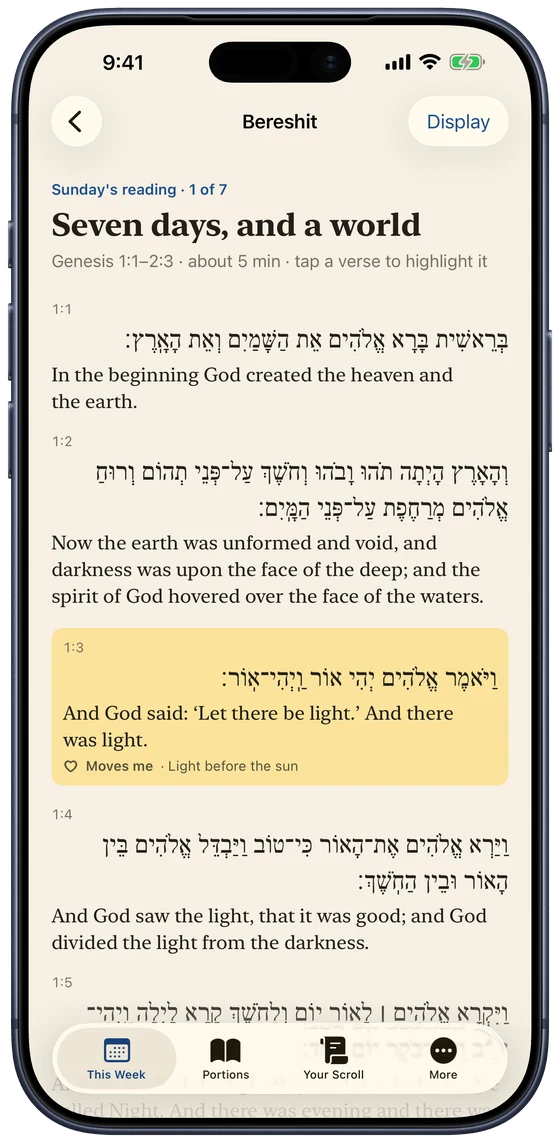
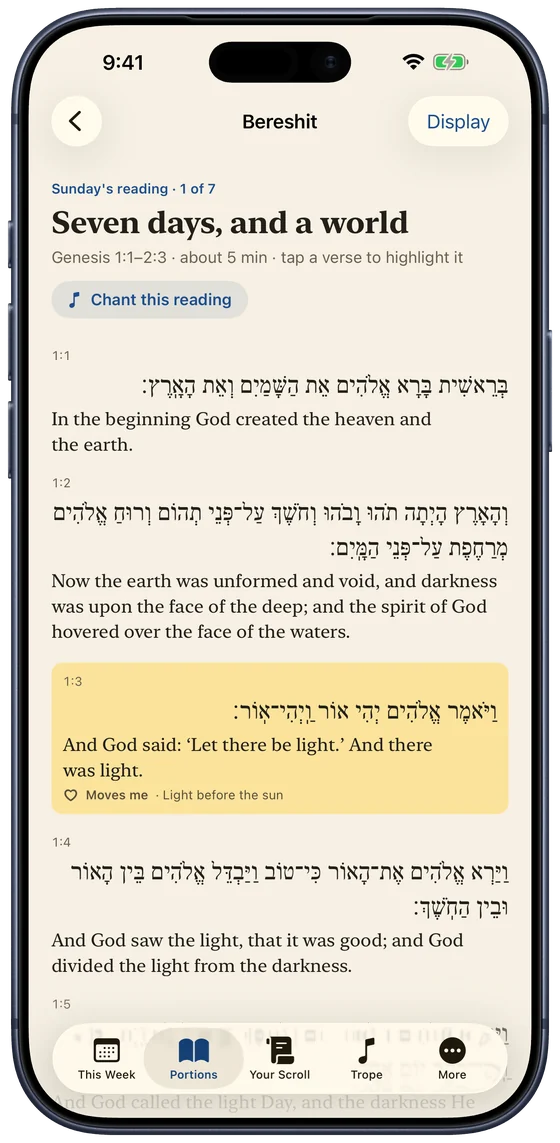
Learn trope section, trope FAQ, new screenshots

diff --git a/index.html b/index.html
@@ -19,12 +19,12 @@
 <meta name="twitter:card" content="summary_large_image">
 <link rel="icon" type="image/png" href="favicon.png">
 <link rel="apple-touch-icon" href="apple-touch-icon.png">
-<link rel="stylesheet" href="style.css?v=5">
+<link rel="stylesheet" href="style.css?v=4">
 </head>
 <body>
 <header class="bar"><div class="wrap">
   <a class="brand" href="./"><img src="img/icon.png" alt="" width="34" height="34"><span>Torah: Turn It</span></a>
-  <nav><a href="support.html">Support</a><a href="privacy.html">Privacy</a><a class="discord" data-discord hidden href="#" aria-label="Discord"><svg viewBox="0 0 24 24" aria-hidden="true" fill="currentColor"><path d="M20.3 4.4A19.8 19.8 0 0 0 15.4 3l-.6 1.3a18.4 18.4 0 0 0-5.6 0L8.6 3a19.7 19.7 0 0 0-4.9 1.5C.6 9.1-.3 13.6.1 18.1a19.9 19.9 0 0 0 6 3l1.3-2.1a12.9 12.9 0 0 1-2-1l.5-.4a14.2 14.2 0 0 0 12.2 0l.5.4a12.9 12.9 0 0 1-2.1 1l1.3 2.1a19.8 19.8 0 0 0 6-3c.5-5.2-.8-9.7-3.5-13.7ZM8.3 15.3c-1.2 0-2.2-1.1-2.2-2.4s1-2.4 2.2-2.4 2.2 1.1 2.2 2.4-1 2.4-2.2 2.4Zm7.4 0c-1.2 0-2.2-1.1-2.2-2.4s1-2.4 2.2-2.4 2.2 1.1 2.2 2.4-1 2.4-2.2 2.4Z"/></svg><span>Discord</span></a></nav>
+  <nav><a class="nav-trope" href="#trope">Learn trope</a><a href="support.html">Support</a><a href="privacy.html">Privacy</a><a class="discord" data-discord hidden href="#"><svg viewBox="0 0 24 24" aria-hidden="true" fill="currentColor"><path d="M20.3 4.4A19.8 19.8 0 0 0 15.4 3l-.6 1.3a18.4 18.4 0 0 0-5.6 0L8.6 3a19.7 19.7 0 0 0-4.9 1.5C.6 9.1-.3 13.6.1 18.1a19.9 19.9 0 0 0 6 3l1.3-2.1a12.9 12.9 0 0 1-2-1l.5-.4a14.2 14.2 0 0 0 12.2 0l.5.4a12.9 12.9 0 0 1-2.1 1l1.3 2.1a19.8 19.8 0 0 0 6-3c.5-5.2-.8-9.7-3.5-13.7ZM8.3 15.3c-1.2 0-2.2-1.1-2.2-2.4s1-2.4 2.2-2.4 2.2 1.1 2.2 2.4-1 2.4-2.2 2.4Zm7.4 0c-1.2 0-2.2-1.1-2.2-2.4s1-2.4 2.2-2.4 2.2 1.1 2.2 2.4-1 2.4-2.2 2.4Z"/></svg><span>Discord</span></a></nav>
 </div></header>
 
 <main>
@@ -35,7 +35,7 @@
     <h1>This week's Torah portion, a few minutes a day.</h1>
     <p class="lede">&ldquo;Turn it and turn it, for everything is in it.&rdquo; A rabbi named Ben Bag Bag said that about the Torah nearly two thousand years ago, and it&rsquo;s where this app gets its name.</p>
     <p class="lede">Every week brings a new portion to study (or turn over), called the parasha. Torah: Turn It gives you the original text, and different, interesting and relevant ways of studying it, making it applicable to your own life.</p>
-    <p class="lede"><strong>The Hebrew is all here, with vowels and even the trope for chanting. You just don&rsquo;t need it.</strong></p>
+    <p class="lede"><strong>The Hebrew is all here, with vowels and even the trope for chanting. You just don&rsquo;t need it.</strong> And if you&rsquo;d like to chant it, the app <a href="#trope">teaches you how</a>, starting from the very first mark.</p>
     <div class="cta">
       <a class="store-badge" data-store-live hidden href="#" aria-label="Download Torah: Turn It on the App Store"><picture><source srcset="img/app-store-badge-white.svg" media="(prefers-color-scheme: dark)"><img src="img/app-store-badge-black.svg" alt="Download on the App Store" width="132" height="44"></picture></a>
       <a class="button ghost" href="#inside">See what's inside</a>
@@ -72,6 +72,32 @@
   <figcaption>On iPad, the whole week at a glance, with keyboard shortcuts too.</figcaption>
 </section>
 
+<section id="trope" class="trope" aria-labelledby="trope-h">
+  <div>
+    <p class="eyebrow">Learn trope</p>
+    <h2 id="trope-h">Learn to chant it, from the very first mark.</h2>
+    <p class="sub">Trope is the melody the Torah is sung to: a tiny mark on almost every word, and each mark is a short tune. Most people only learn it for a bar or bat mitzvah, if at all, and plenty who did have forgotten it. Torah: Turn It teaches the Torah chant used in Reform congregations from scratch, and assumes you&rsquo;ve never seen a trope mark before.</p>
+    <ul class="trope-points">
+      <li><strong>Hear every mark</strong> played clearly, with each syllable lighting up as it&rsquo;s sung.</li>
+      <li><strong>See it written out</strong> the way trope books print it, on a staff that follows along. You don&rsquo;t need to read music.</li>
+      <li><strong>Practice on real verses</strong> from all five books, from &ldquo;In the beginning&rdquo; to the Shema.</li>
+      <li><strong>Your pace, your key.</strong> Slow it down while you learn, and move it up or down until it sits comfortably in your voice.</li>
+      <li><strong>Ten short lessons</strong>, one family of marks at a time, each ending with a quick quiz.</li>
+      <li><strong>Hear any verse chanted.</strong> Play one verse, carry on through the day&rsquo;s reading, or repeat a verse until you&rsquo;ve got it.</li>
+    </ul>
+  </div>
+  <figure class="trope-video">
+    <video src="img/trope-mark.mp4" poster="img/trope-mark-poster.jpg" autoplay muted loop playsinline preload="metadata" aria-label="Mercha playing in the app on words from Exodus and Leviticus: each syllable and note lights up in turn"></video>
+    <figcaption>Mercha on two real words, syllable by syllable and note by note</figcaption>
+  </figure>
+</section>
+
+<section class="shots trope-shots" aria-label="Learn trope in the app">
+  <figure><img src="img/iphone-trope-start.webp" alt="Start here: what trope is, explained step by step, beginning with the first word of the Torah" width="560" height="1143" loading="lazy"><figcaption>Starts from zero: what trope is and how to read it</figcaption></figure>
+  <figure><img src="img/iphone-trope-mark.webp" alt="A lesson on mercha: how to spot the mark, its melody on a staff, and real words from Genesis, Exodus and Leviticus" width="560" height="1143" loading="lazy"><figcaption>Every mark: how to spot it, how it sounds, how it&rsquo;s written</figcaption></figure>
+  <figure><img src="img/iphone-trope-phrase.webp" alt="A phrase from Genesis 1:1 shown as written and syllable by syllable, with the music following along" width="560" height="1143" loading="lazy"><figcaption>Then the marks together, in a real verse</figcaption></figure>
+</section>
+
 <section class="features">
   <div class="card"><h3>Words explain themselves</h3><p>Tap any underlined word, like midrash or mishkan, for a short explanation in plain English. No word stands in your way.</p></div>
   <div class="card"><h3>Your bar or bat mitzvah portion</h3><p>Enter a birthday and it finds the portion. A good way back to the one you once chanted, or a head start on your child's.</p></div>
@@ -95,7 +121,7 @@
   <div><a href="./">Home</a><a href="support.html">Support</a><a href="privacy.html">Privacy</a><a class="discord" data-discord hidden href="#"><svg viewBox="0 0 24 24" aria-hidden="true" fill="currentColor"><path d="M20.3 4.4A19.8 19.8 0 0 0 15.4 3l-.6 1.3a18.4 18.4 0 0 0-5.6 0L8.6 3a19.7 19.7 0 0 0-4.9 1.5C.6 9.1-.3 13.6.1 18.1a19.9 19.9 0 0 0 6 3l1.3-2.1a12.9 12.9 0 0 1-2-1l.5-.4a14.2 14.2 0 0 0 12.2 0l.5.4a12.9 12.9 0 0 1-2.1 1l1.3 2.1a19.8 19.8 0 0 0 6-3c.5-5.2-.8-9.7-3.5-13.7ZM8.3 15.3c-1.2 0-2.2-1.1-2.2-2.4s1-2.4 2.2-2.4 2.2 1.1 2.2 2.4-1 2.4-2.2 2.4Zm7.4 0c-1.2 0-2.2-1.1-2.2-2.4s1-2.4 2.2-2.4 2.2 1.1 2.2 2.4-1 2.4-2.2 2.4Z"/></svg><span>Discord</span></a></div>
   <div>Made by Rabbi Eric Linder. &copy; 2026 Chai Wellness</div>
 </div></footer>
-<script src="site.js?v=1" defer></script>
+<script src="site.js?v=2" defer></script>
 <script src="store.js?v=1" defer></script>
 </body>
 </html>

diff --git a/support.html b/support.html
@@ -35,8 +35,17 @@
     <h3>How do I find my bar or bat mitzvah portion?</h3>
     <p>Enter a birthday in the app and it works out the portion, then shows where it falls in the year.</p>
 
+    <h3>Which trope does it teach?</h3>
+    <p>The Torah chant sung in American Reform congregations, note for note as printed in <em>The Art of Torah Cantillation</em> (Portnoy and Wolff, UAHC Press). Find it in the Trope tab; the lessons start from zero.</p>
+
+    <h3>Do I need to read music to learn trope?</h3>
+    <p>No. Every mark plays out loud with its syllables lighting up as they&rsquo;re sung. The staff is there if you like it, and you can hide it.</p>
+
+    <h3>The chanting is too high, too low, or too fast for me.</h3>
+    <p>Tap <strong>Speed &amp; key</strong> at the top of any lesson. Slow it down while you learn, and move the key up or down half a step at a time until it sits comfortably in your voice.</p>
+
     <h3>My highlights aren't on my other device.</h3>
-    <p>Highlights, notes and reading progress sync through iCloud. Make sure both devices are signed in to the same Apple Account with iCloud turned on, then open the app on each. It can take a minute.</p>
+    <p>Highlights, notes, reading progress and trope lessons sync through iCloud. Make sure both devices are signed in to the same Apple Account with iCloud turned on, then open the app on each. It can take a minute.</p>
 
     <h3>I found a mistake in the text or a guide.</h3>
     <p>Thank you for catching it. Please write with the portion and verse. The English is the 1917 Jewish Publication Society translation, and every guide is checked against it.</p>

diff --git a/style.css b/style.css
@@ -89,12 +89,23 @@ footer a { color: var(--faded); margin-right: 18px; }
 .email-row code { font-size: 16px; }
 .email-row a, .email-row button { font: 600 15px var(--sans); color: var(--accent); background: none; border: 1.5px solid var(--rule); border-radius: 999px; padding: 6px 14px; cursor: pointer; text-decoration: none; }
 
+.trope { display: grid; grid-template-columns: 1.1fr 0.9fr; gap: 48px; align-items: center; }
+.trope-points { margin: 0; padding-left: 1.2em; max-width: 36em; }
+.trope-points li { margin: 0 0 10px; }
+.trope-video { margin: 0; justify-self: center; max-width: 420px; }
+.trope-video video { width: 100%; height: auto; display: block; border-radius: 22px; background: var(--card); box-shadow: 0 12px 40px rgba(0,0,0,.14); border: 1px solid var(--rule); }
+.trope-video figcaption { color: var(--faded); font-size: 15px; margin-top: 10px; text-align: center; }
+.trope-shots { padding-top: 0; }
 @media (max-width: 820px) {
+  .trope { grid-template-columns: 1fr; gap: 28px; }
   .hero { grid-template-columns: 1fr; padding-top: 32px; gap: 28px; }
   .hero-shot { max-width: 280px; }
   .parts, .features { grid-template-columns: 1fr; }
   .shots { grid-template-columns: 1fr 1fr; }
   nav a { margin-left: 12px; }
+}
+@media (max-width: 600px) {
+  .nav-trope { display: none; }
 }
 @media (max-width: 480px) {
   /* One tidy row on phones: the icon and a smaller name, links close together. */

diff --git a/privacy.html b/privacy.html
@@ -34,7 +34,7 @@
   </ul>
 
   <h2>iCloud</h2>
-  <p>If you're signed in to iCloud, your highlights, notes and reading progress sync between your own devices through Apple's iCloud key-value storage, in your iCloud account. We can't see them. Deleting the app removes its copy on that device.</p>
+  <p>If you're signed in to iCloud, your highlights, notes, reading progress and trope lesson progress sync between your own devices through Apple's iCloud key-value storage, in your iCloud account. We can't see them. Deleting the app removes its copy on that device.</p>
 
   <h2>Reminders</h2>
   <p>Reminders are notifications your device schedules for itself. Nothing is sent from a server. The app asks permission only when you turn a reminder on.</p>

diff --git a/site.js b/site.js
@@ -24,3 +24,12 @@ var SUPPORT_EMAIL = "support@torahturnit.com";
     });
   });
 })();
+
+// The trope clip plays while it's on screen and rests when it isn't (some
+// browsers skip autoplay; this also saves battery on long scrolls).
+(() => {
+  const v = document.querySelector('.trope-video video');
+  if (!v || !('IntersectionObserver' in window)) return;
+  if (matchMedia('(prefers-reduced-motion: reduce)').matches) { v.removeAttribute('autoplay'); v.controls = true; return; }
+  new IntersectionObserver(([e]) => { e.isIntersecting ? v.play().catch(() => {}) : v.pause(); }, { threshold: 0.4 }).observe(v);
+})();
